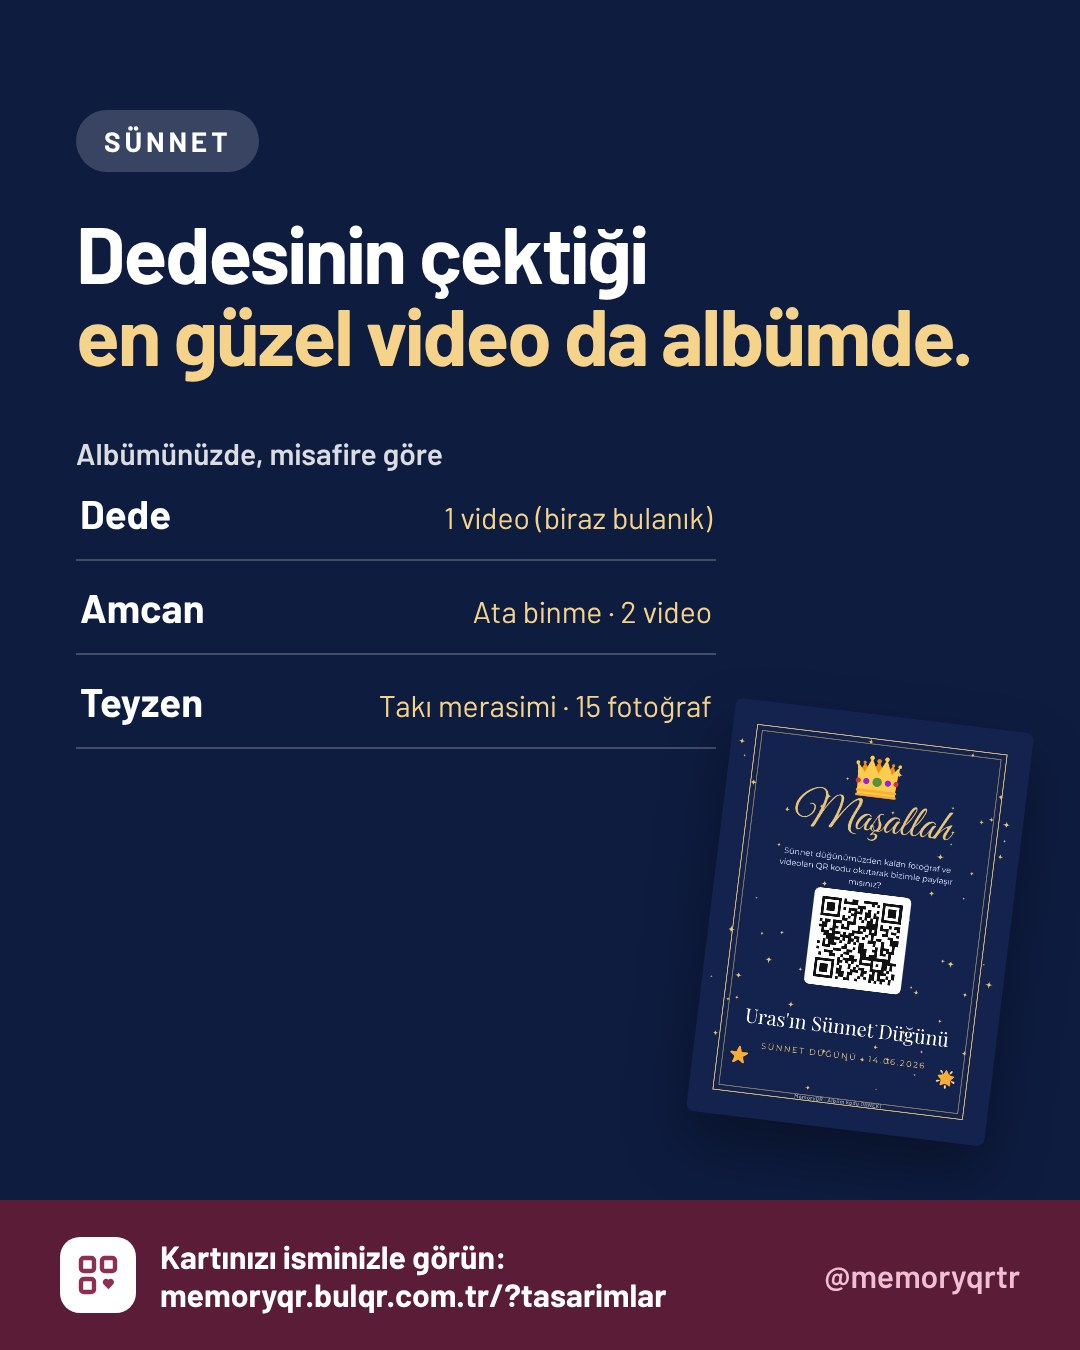
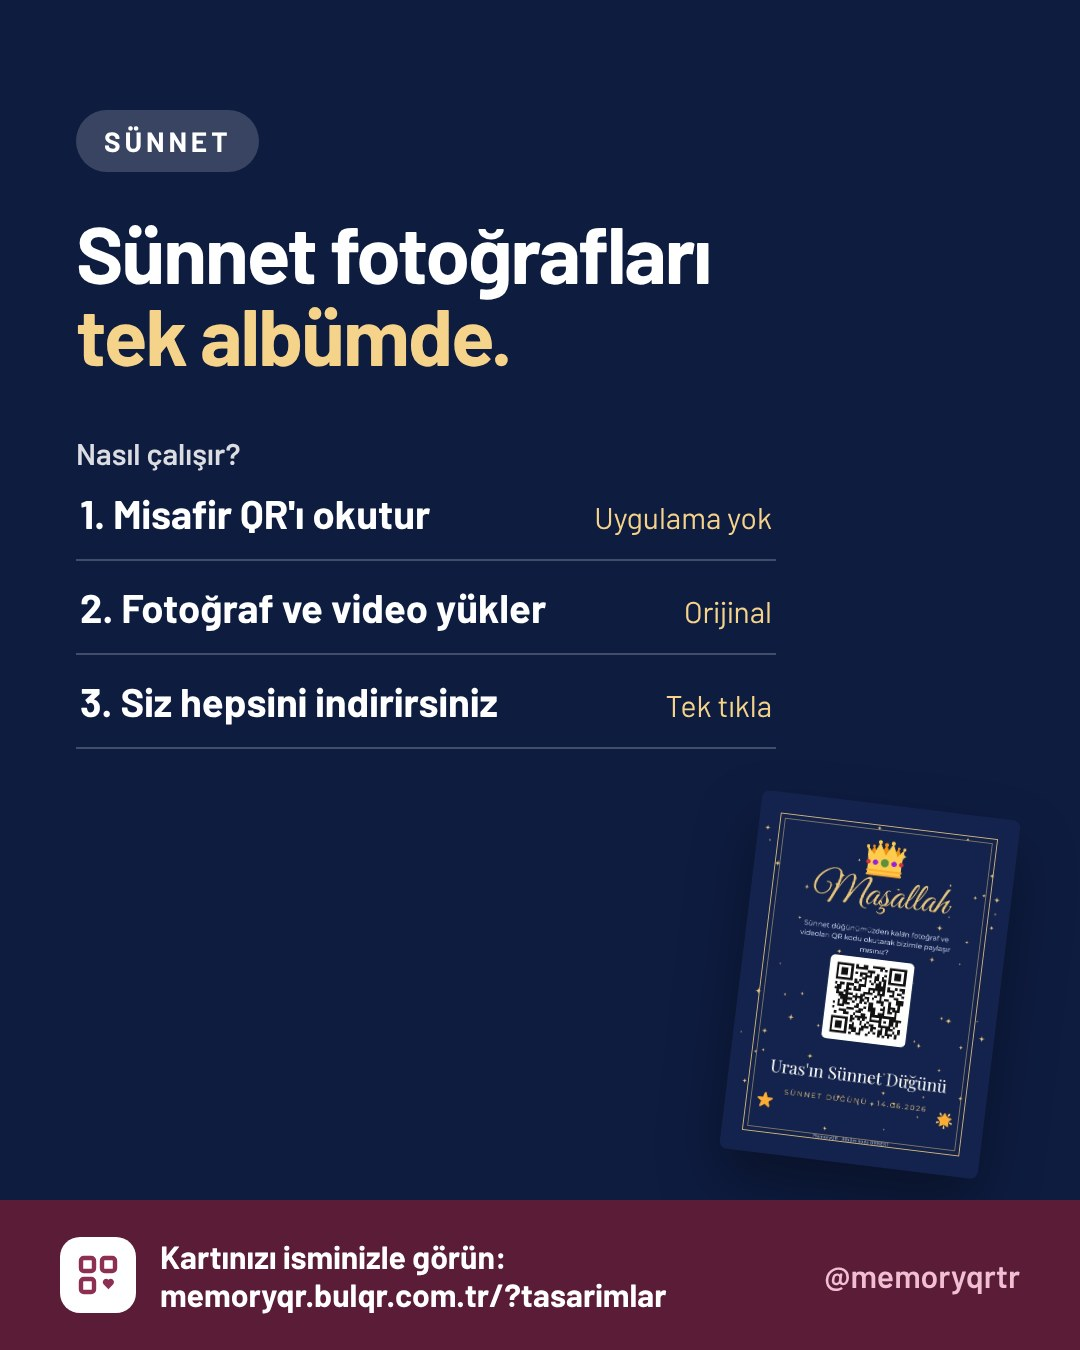
Etkinlik serisi: net başlık ve 3 adım, espriler kaldırıldı
Claude-Session: https://claude.ai/code/session_013LggcHU5H3775AuoLzGk1M

diff --git a/pazarlama/ig/ekstra.js b/pazarlama/ig/ekstra.js
@@ -204,46 +204,26 @@ const IG_EKSTRA = [
         ["kilit", "Gizlilik", "Albümün tamamını yalnızca siz görürsünüz."],
         ["hediye", "Ek: 1 yıl saklama", "+299 TL, Google Drive arşivi."]], bant: "Tek seferlik ödeme, | abonelik yok."},
       {tpl: "m-cta", b: ["Paketinizi seçin,", "siparişi başlatın."]}]},
-  // ---- etkinlik serisi: her etkinliğin kendi esprisi; albüme düşen misafir bildirimleri ve köşede gerçek kart
+  // ---- etkinlik serisi: net başlık, 3 adım, köşede o etkinliğe ait gerçek kart
   ...[
-    {ad: "Düğün", kind: "dugun", isim: "Seda & Yusuf", tasarim: "lacivert_barok", renk: "#4a1530", renk2: "#8c2f52", tag: "#düğünfotoğrafları",
-      b: ["Halanız 47 fotoğraf çekti.", "Hepsi albümünüzde."], albumAd: "Seda & Yusuf albümü",
-      bildirim: [["Halan", "47 fotoğraf", ["💃", "📸"]], ["Kuzen Mert", "İlk dans · 3 video", ["🎥", "💞"]], ["Masa 7", "Toplu fotoğraf · 6 fotoğraf", ["👨👩👧", "🥂"]], ["Dedeniz", "1 video (biraz titrek)", ["😄", "🎥"]]],
-      alt: "Fotoğrafçının göremediği her an, **misafirlerin gözünden.**",
-      cap: "Düğünün en güzel kareleri genelde misafirlerin telefonunda kalır 📸\n\nMemoryQR'da masadaki QR'ı okutan herkes çektiğini doğrudan albümünüze yükler. Halanızın 47 fotoğrafı da, dedenizin titrek videosu da 😄\n\n💌 Paketler 499 TL'den. 👉 Tasarımınızı seçin: link profilde"},
-    {ad: "Kına gecesi", kind: "kina", isim: "Seda'nın Kına Gecesi", tasarim: "bordo_gul", renk: "#5a0e18", renk2: "#a3263a", tag: "#kınaorganizasyonu",
-      b: ["Halay videosu kimdeydi?", "Artık albümünüzde."], albumAd: "Kına gecesi albümü",
-      bildirim: [["Teyzen", "Halay · 4 video", ["💃", "🎶"]], ["Elif", "Kına yakılırken · 12 fotoğraf", ["🔴", "📸"]], ["Annen", "'Yüksek yüksek tepelere' · 1 video", ["🎤", "🥹"]], ["Zeynep", "Bindallı · 9 fotoğraf", ["👑", "✨"]]],
-      alt: "Türküler, halaylar, gözyaşları: **kına bir kere yaşanır.**",
-      cap: "Kına gecesinin en güzel videoları hep birilerinin telefonunda kalır 💃\n\nMemoryQR ile masadaki QR'ı okutan herkes çektiğini doğrudan albümünüze yükler. Kına + düğün için 2 albümlü Aile paketimiz de var.\n\n👉 Tasarımınızı seçin: link profilde"},
-    {ad: "Nişan", kind: "nisan", isim: "Seda & Yusuf", tasarim: "pudra_yuzuk", renk: "#5e3a48", renk2: "#a06a7c", tag: "#nişanhazırlığı",
-      b: ["Yüzük anı,", "6 farklı açıdan."], albumAd: "Nişan albümü",
-      bildirim: [["Kayınvalide", "Yüzük anı · 1 video", ["💍", "📸"]], ["Abin", "Yüzük anı, başka açıdan", ["💍", "🎥"]], ["Nişan masası", "8 fotoğraf", ["🌸", "🥂"]], ["Kuzen Ayşe", "Aile fotoğrafı", ["👨👩👧👦", "✨"]]],
-      alt: "İki ailenin ilk ortak fotoğrafları **tek albümde.**",
-      cap: "Yüzükler takılırken herkes telefonunu kaldırır 💍 O kareleri tek tek istemenize gerek yok.\n\nMemoryQR'da QR'ı okutan her misafir çektiğini doğrudan albümünüze yükler.\n\n👉 Tasarımınızı seçin: link profilde"},
-    {ad: "Doğum günü", kind: "dogum_gunu", isim: "Seda'nın Doğum Günü", tasarim: "unicorn", renk: "#3d2470", renk2: "#7a52c2", tag: "#doğumgünüpartisi",
-      b: ["Mumlar üflenirken", "14 telefon çekti."], albumAd: "Doğum günü albümü",
-      bildirim: [["Defne'nin annesi", "Mum üfleme · 1 video", ["🎂", "🎥"]], ["Can'ın babası", "Oyun alanı · 9 fotoğraf", ["🎈", "📸"]], ["Babaanne", "Hediye açılışı · 2 video", ["🎁", "🥹"]], ["Animatör", "Grup fotoğrafı", ["🦄", "✨"]]],
-      alt: "Velilerin çektiği her kare, **parti bitmeden albümde.**",
-      cap: "Parti biter, fotoğraflar 14 farklı velinin telefonunda kalır 🎈\n\nMemoryQR ile pastanın yanındaki QR'ı okutan herkes çektiğini albüme yükler. Çocuğunuzun ismiyle hazır kartlar.\n\n👉 Tasarımınızı seçin: link profilde"},
-    {ad: "Mezuniyet", kind: "mezuniyet", isim: "Hukuk Fakültesi Mezuniyet Balosu", tasarim: "mezun_lacivert", renk: "#0d1d42", renk2: "#2a4a8c", tag: "#mezuniyetbalosu",
-      b: ["Kep atma anı,", "bütün sınıfın gözünden."], albumAd: "Mezuniyet albümü",
-      bildirim: [["Melis", "Kep atma · 1 video", ["🎓", "🎥"]], ["Sınıf başkanı", "Toplu fotoğraf", ["👩🎓", "📸"]], ["Burak", "Balo · 22 fotoğraf", ["🕺", "✨"]], ["Hocamız", "Konuşma · 1 video", ["🎤", "👏"]]],
-      alt: "Sınıf grubuna kimse atmaz. **Albüme herkes yükler.**",
-      cap: "Balo gecesi herkes çeker, kimse paylaşmaz 🎓\n\nMemoryQR ile masalardaki QR'ı okutan her mezun çektiğini sınıfın ortak albümüne yükler. Sınıf temsilcileri, bize yazın.\n\n👉 Tasarımlar: link profilde"},
-    {ad: "Sünnet", kind: "sunnet", isim: "Uras'ın Sünnet Düğünü", tasarim: "sunnet_prens", renk: "#0e1c40", renk2: "#2b4a86", tag: "#sünnetdüğünü",
-      b: ["Dedesinin çektiği", "en güzel video da albümde."], albumAd: "Sünnet düğünü albümü",
-      bildirim: [["Dede", "1 video (biraz bulanık)", ["👑", "🥹"]], ["Amcan", "Ata binme · 2 video", ["🐎", "🎥"]], ["Teyzen", "Takı merasimi · 15 fotoğraf", ["✨", "📸"]], ["Kuzen Efe", "Dans · 1 video", ["💃", "🎶"]]],
-      alt: "Küçük prensin büyük günü, **herkesin gözünden.**",
-      cap: "Sünnet düğününde en kıymetli kareler, dedenin titrek ellerle çektiği videolardır 🤍\n\nMemoryQR ile masadaki QR'ı okutan herkes çektiğini albümünüze yükler. Uygulama yok, orijinal kalite.\n\n👉 Tasarımınızı seçin: link profilde"},
-    {ad: "Baby shower", kind: "baby_shower", isim: "Seda'nın Baby Shower'ı", tasarim: "bebek_pembe", renk: "#8a3458", renk2: "#d07a9a", vurgu: "#fff1b8", tag: "#babyshower",
-      b: ["Kız mı, erkek mi?", "O an herkesin gözünden."], albumAd: "Baby shower albümü",
-      bildirim: [["Annen", "Açıklama anı · 1 video", ["🎈", "🥹"]], ["Kardeşin", "Aynı an, yavaş çekim", ["🎀", "🎥"]], ["İş arkadaşların", "9 fotoğraf", ["🧸", "📸"]], ["Eşin", "İlk tepkin · 1 video", ["💞", "😂"]]],
-      alt: "Bebeğinize ilk albümü **misafirleriniz hazırlasın.**",
-      cap: "Kız mı erkek mi açıklandığı an, salondaki herkes kaydediyordu 🎈\n\nMemoryQR ile QR'ı okutan herkes çektiğini doğrudan albümünüze yükler. Bebeğinize ilk albüm hediyesi 🤍\n\n👉 Tasarımınızı seçin: link profilde"},
+    {ad: "Düğün", kind: "dugun", isim: "Seda & Yusuf", tasarim: "lacivert_barok", renk: "#4a1530", tag: "#düğünfotoğrafları",
+      b: ["Düğününüzün fotoğrafları", "tek albümde."], kim: "misafirleriniz"},
+    {ad: "Kına gecesi", kind: "kina", isim: "Seda'nın Kına Gecesi", tasarim: "bordo_gul", renk: "#5a0e18", tag: "#kınaorganizasyonu",
+      b: ["Kına gecenizin fotoğrafları", "tek albümde."], kim: "misafirleriniz"},
+    {ad: "Nişan", kind: "nisan", isim: "Seda & Yusuf", tasarim: "pudra_yuzuk", renk: "#5e3a48", tag: "#nişanhazırlığı",
+      b: ["Nişanınızın fotoğrafları", "tek albümde."], kim: "misafirleriniz"},
+    {ad: "Doğum günü", kind: "dogum_gunu", isim: "Seda'nın Doğum Günü", tasarim: "unicorn", renk: "#3d2470", tag: "#doğumgünüpartisi",
+      b: ["Doğum günü fotoğrafları", "tek albümde."], kim: "misafirler ve veliler"},
+    {ad: "Mezuniyet", kind: "mezuniyet", isim: "Hukuk Fakültesi Mezuniyet Balosu", tasarim: "mezun_lacivert", renk: "#0d1d42", tag: "#mezuniyetbalosu",
+      b: ["Mezuniyetin fotoğrafları", "tek albümde."], kim: "bütün sınıf"},
+    {ad: "Sünnet", kind: "sunnet", isim: "Uras'ın Sünnet Düğünü", tasarim: "sunnet_prens", renk: "#0e1c40", tag: "#sünnetdüğünü",
+      b: ["Sünnet fotoğrafları", "tek albümde."], kim: "misafirleriniz"},
+    {ad: "Baby shower", kind: "baby_shower", isim: "Seda'nın Baby Shower'ı", tasarim: "bebek_pembe", renk: "#8a3458", vurgu: "#fff1b8", tag: "#babyshower",
+      b: ["Baby shower'ın fotoğrafları", "tek albümde."], kim: "misafirleriniz"},
   ].map(e => ({t: "gonderi", h: `Etkinlik serisi: ${e.ad}`,
-    ne: "Seriden bir gönderi. Görseldeki liste albüm panelindeki 'misafire göre' görünümünü canlandırır. Haftaya yayarak paylaş.",
-    cap: e.cap, tags: [e.tag, "#qrkod", "#anıalbümü", "#misafirfotoğrafları"],
-    slides: [{tpl: "m-bil", etiket: e.ad, ...e}]})),
+    ne: "Seriden bir gönderi. Haftaya yayarak paylaş.",
+    cap: `${e.ad} için QR kodlu ortak albüm 📸\n\n1. Masadaki QR'ı ${e.kim} telefon kamerasıyla okutur.\n2. Adını yazar, çektiği fotoğraf ve videoları yükler.\n3. Hepsi orijinal kalitede tek albümde toplanır, siz tek tıkla indirirsiniz.\n\nUygulama yok, üyelik yok. Kart ve kartvizit isminizle hazırlanır. Paketler 499 TL'den başlıyor.\n\n👉 Tasarımınızı seçin: link profilde`,
+    tags: [e.tag, "#qrkod", "#anıalbümü", "#misafirfotoğrafları"],
+    slides: [{tpl: "m-bil", etiket: e.ad, ...e, liste: [["1. Misafir QR'ı okutur", "Uygulama yok"], ["2. Fotoğraf ve video yükler", "Orijinal"], ["3. Siz hepsini indirirsiniz", "Tek tıkla"]]}]})),
 ];
 if (typeof module !== "undefined") module.exports = {IG_EKSTRA};

diff --git a/pazarlama/ig/sablon.html b/pazarlama/ig/sablon.html
@@ -185,7 +185,8 @@ body{margin:0;background:#888;font-family:var(--body)}
 .m.bil{background:linear-gradient(165deg,var(--tz2) 0%,var(--tz) 100%)}
 .m.bil .tag{background:rgba(255,255,255,.18);color:#fff}
 .m.bil .mh{color:#fff;font-size:76px}.m.bil .mh em{color:var(--ta)}
-.m.bil .nots{position:relative;display:grid;gap:0;width:640px;margin-top:20px}
+.m.bil .nots{position:relative;display:grid;gap:0;width:700px;margin-top:20px}
+.m.bil .nt p{white-space:nowrap}.m.bil .nt small{white-space:nowrap}
 .m.bil .nt{display:flex;align-items:baseline;justify-content:space-between;gap:20px;border-bottom:2px solid rgba(255,255,255,.22);padding:22px 4px}
 .m.bil .nth{font:600 28px var(--body);color:rgba(255,255,255,.85);margin-bottom:-4px}.m.bil .nth b{color:#fff}
 .m.bil .nt small{font:500 32px var(--body);color:var(--ta);margin:0;text-align:right}
@@ -193,7 +194,7 @@ body{margin:0;background:#888;font-family:var(--body)}
 .m.bil .nt p{margin:0;font:700 40px var(--body);color:#fff}
 .m.bil .nt small{display:block;font:500 22px var(--body);color:#8a7a82;margin-top:4px}
 .m.bil .th3{display:flex;gap:6px}.m.bil .th3 i{width:54px;height:54px;border-radius:12px;display:grid;place-items:center;font-style:normal;font-size:28px}
-.m.bil .kcard{position:absolute;right:70px;bottom:220px;width:300px;transform:rotate(7deg);border-radius:8px;box-shadow:0 30px 60px rgba(0,0,0,.35)}
+.m.bil .kcard{position:absolute;right:80px;bottom:185px;width:260px;transform:rotate(7deg);border-radius:8px;box-shadow:0 30px 60px rgba(0,0,0,.35)}
 .m.bil .nt small{font:500 30px var(--body)!important;color:var(--ta)!important;margin:0!important;text-align:right}
 .m.bil .nth{font-size:30px!important}
 .m.bil .alt2{position:absolute;left:76px;bottom:208px;width:560px;font:600 32px/1.35 var(--body);color:#fff}
@@ -306,7 +307,7 @@ async function renderM(el, s, d) {
     await loadScript("kart.js"); await designReady(s.tasarim);
     const kart = drawCard({code: "ORNEK1", title: s.isim, kind: s.kind, event_date: "2026-06-14"}, s.tasarim, "", 5).toDataURL("image/jpeg", .9);
     el.innerHTML = `<div class="mpad" style="gap:40px;padding-top:110px"><div class="tag">${esc(s.etiket)}</div>${head({...s, hs: s.hs || 80})}
-      <div class="nots"><div class="nth">Albümünüzde, misafire göre</div>${s.bildirim.slice(0, 3).map(([ad, ne]) => `<div class="nt"><p><b>${esc(ad)}</b></p><small>${esc(ne)}</small></div>`).join("")}</div></div>
+      <div class="nots"><div class="nth">Nasıl çalışır?</div>${s.liste.map(([ad, ne]) => `<div class="nt"><p><b>${esc(ad)}</b></p><small>${esc(ne)}</small></div>`).join("")}</div></div>
       <img class="kcard" src="${kart}">${band({bant: "Kartınızı isminizle görün: | memoryqr.bulqr.com.tr/?tasarimlar"})}`;
   } else if (t === "m-tur") {
     el.classList.add("tur"); el.style.setProperty("--tz", s.renk); el.style.setProperty("--ta", s.vurgu || "#f6d38a");
